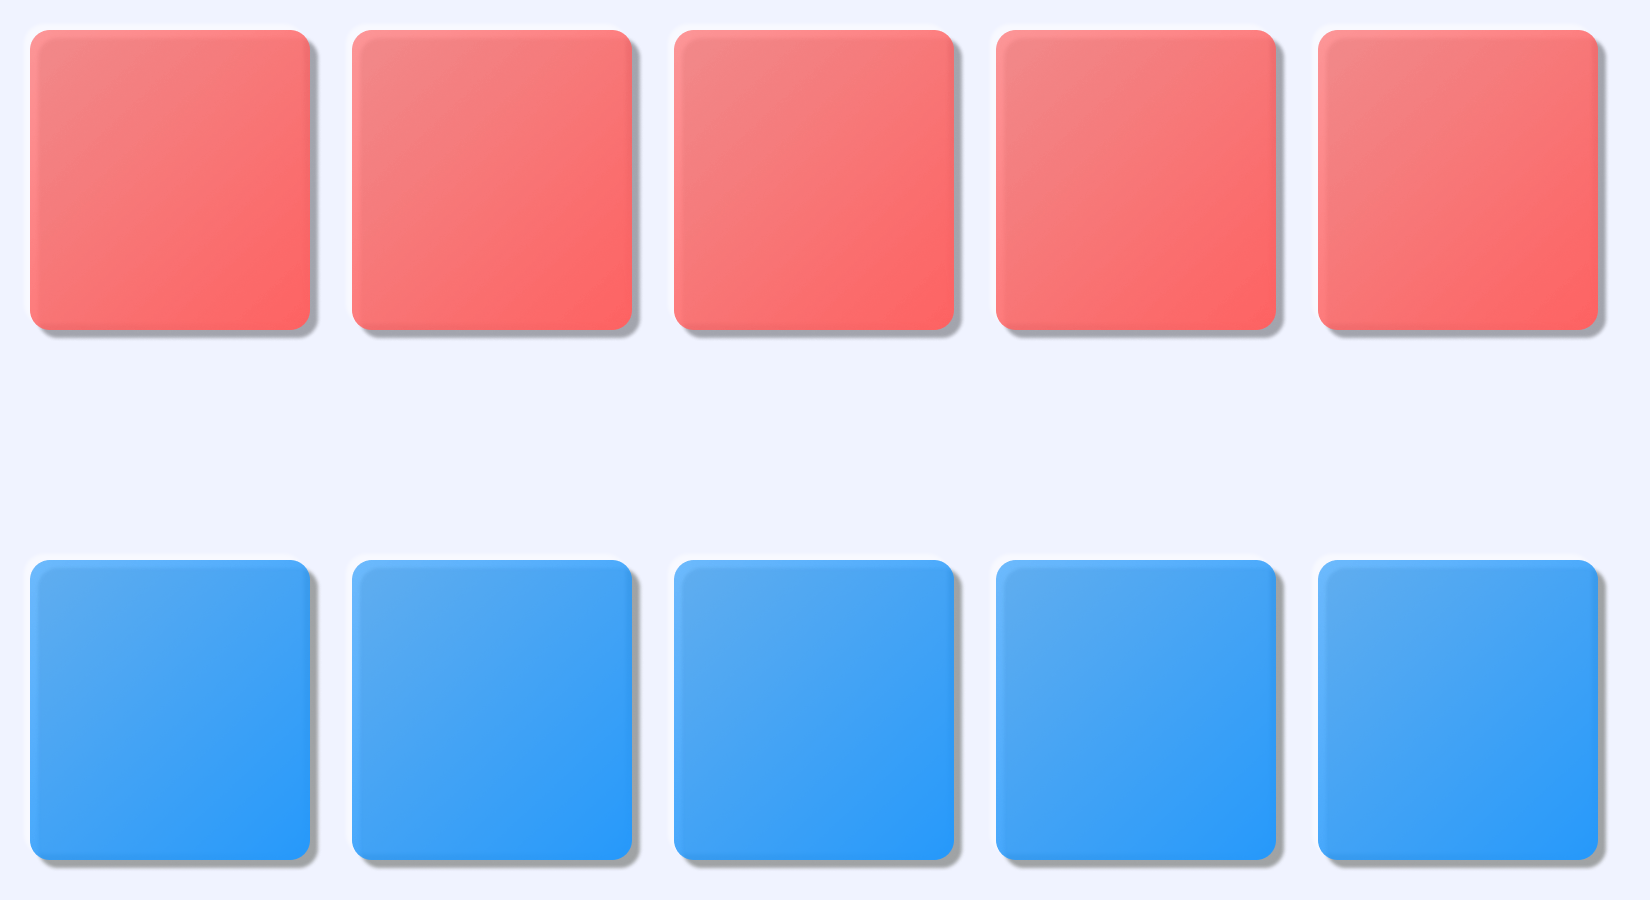
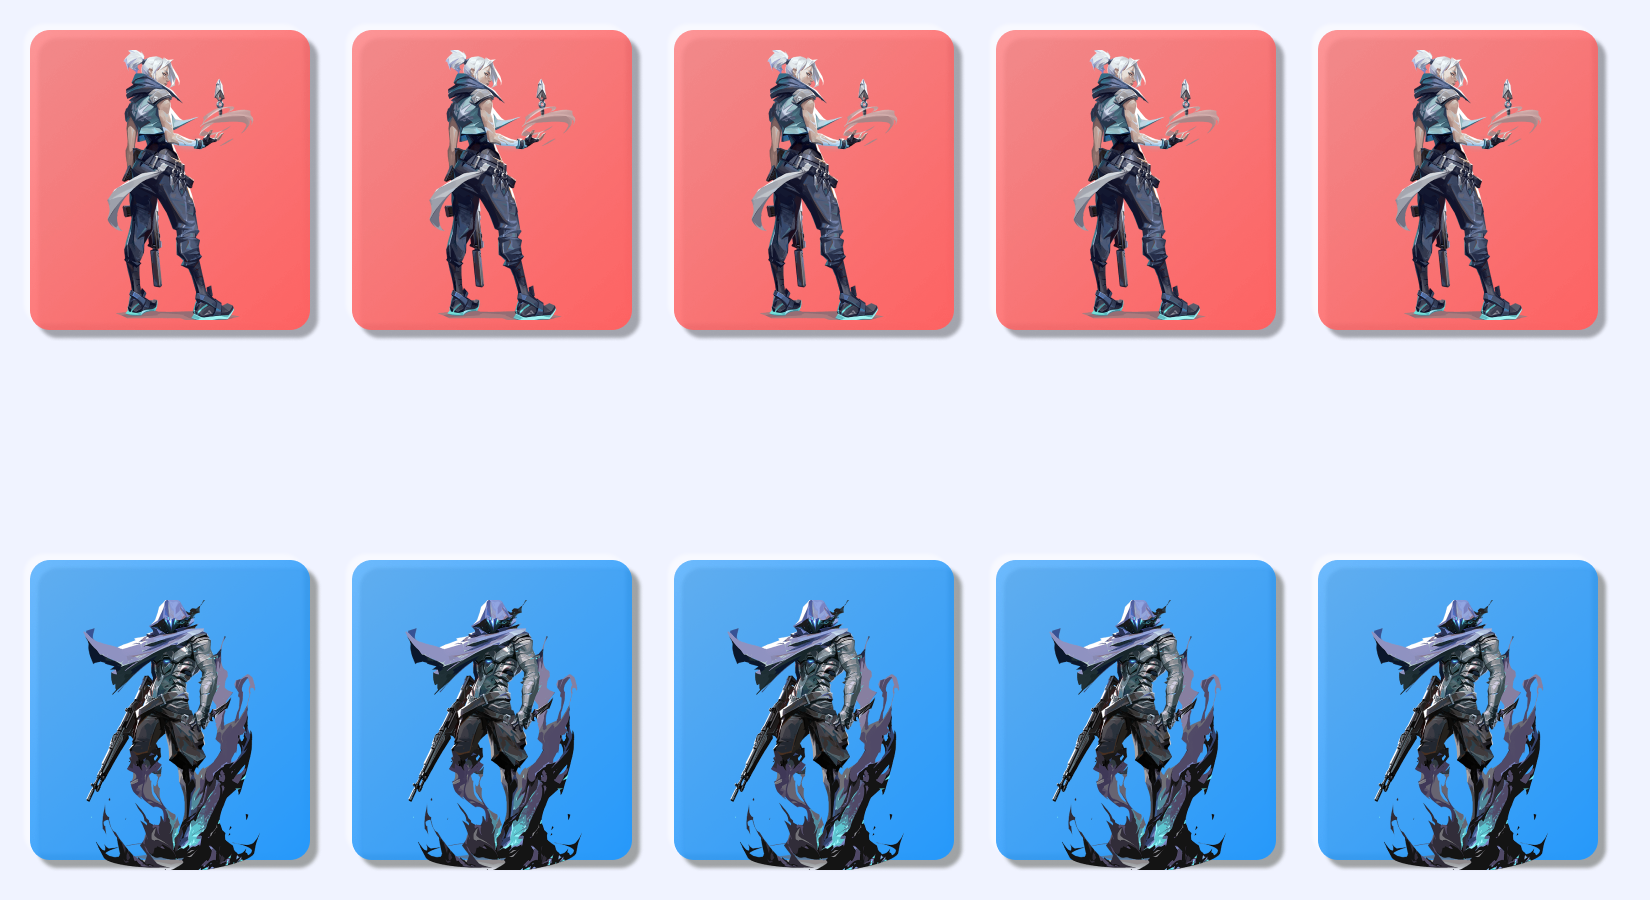
feat: 表示用関数完成

diff --git a/valo_generator.py b/valo_generator.py
@@ -10,6 +10,8 @@ class ValoGenerator:
         self.margin = 20
         self.margin_ry = 20
         self.margin_by = 550
+        self.margin_rcy = 50
+        self.margin_bcy = 600
 
     def gen_base(self):
         blank = cv2.imread("assets/blank.png")
@@ -19,9 +21,11 @@ class ValoGenerator:
 
         for i in range(5):
             blank = self.paste_red(blank, i*(self.card_width+20))
+            blank = self.paste_red_character(blank, "jet", i*(self.card_width+20)+60)
 
         for i in range(5):
             blank = self.paste_blue(blank, i*(self.card_width+20))
+            blank = self.paste_blue_character(blank, "omen", i*(self.card_width+20)+60)
         
         cv2.imwrite("blank.png", blank)
 
@@ -40,12 +44,28 @@ class ValoGenerator:
     def paste_blue(self, base, x):
         blue = cv2.imread("assets/blueCard.png", -1)
 
-        print(self.card_height)
-
         base[self.margin_by:self.card_height+self.margin_by, x+self.margin:x+self.card_width+self.margin] = \
             base[self.margin_by:self.card_height+self.margin_by, x+self.margin:x+self.card_width+self.margin] * \
             (1 - blue[:, :, 3:] / 255) + \
             blue[:, :, :3] * (blue[:, :, 3:] / 255)
+
+        return base
+
+    def paste_red_character(self, base, name, x):
+        character = cv2.imread("assets/valo/{}.png".format(name), -1)
+        h, w = character.shape[:2]
+
+        base[self.margin_rcy:h+self.margin_rcy, x+self.margin:x+w+self.margin] = base[self.margin_rcy:h+self.margin_rcy, x+self.margin:x+w+self.margin] * (1 - character[:, :, 3:] / 255) + \
+            character[:, :, :3] * (character[:, :, 3:] / 255)
+
+        return base
+
+    def paste_blue_character(self, base, name, x):
+        character = cv2.imread("assets/valo/{}.png".format(name), -1)
+        h, w = character.shape[:2]
+
+        base[self.margin_bcy:h+self.margin_bcy, x+self.margin:x+w+self.margin] = base[self.margin_bcy:h+self.margin_bcy, x+self.margin:x+w+self.margin] * (1 - character[:, :, 3:] / 255) + \
+            character[:, :, :3] * (character[:, :, 3:] / 255)
 
         return base
 
